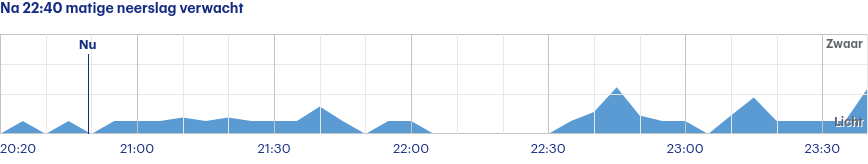
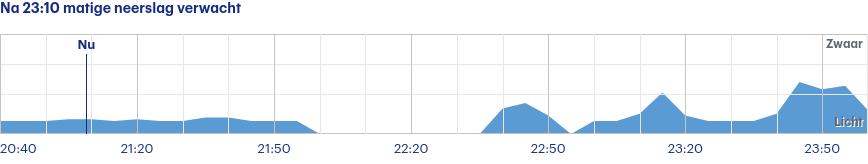
Latest scraping buienradar: Wed Aug  2 19:00:26 UTC 2023

diff --git a/scrapes/buienradar/buienradar-jette-3-uur.md b/scrapes/buienradar/buienradar-jette-3-uur.md
@@ -1,4 +1,4 @@
-Na 22:40 matige neerslag verwacht
+Na 23:10 matige neerslag verwacht
 
 ![](buienradar-jette-3-uur.png)
 
